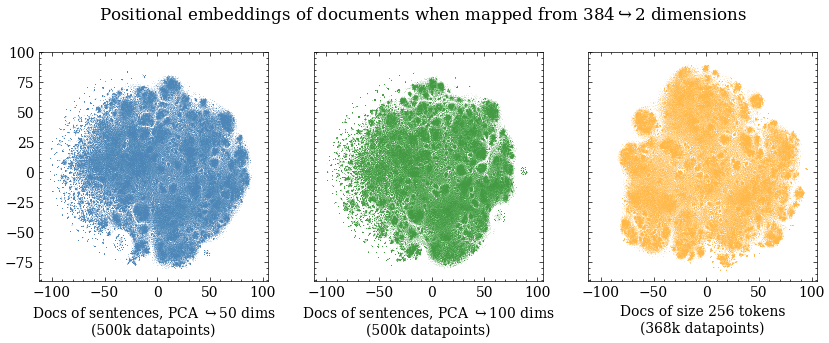
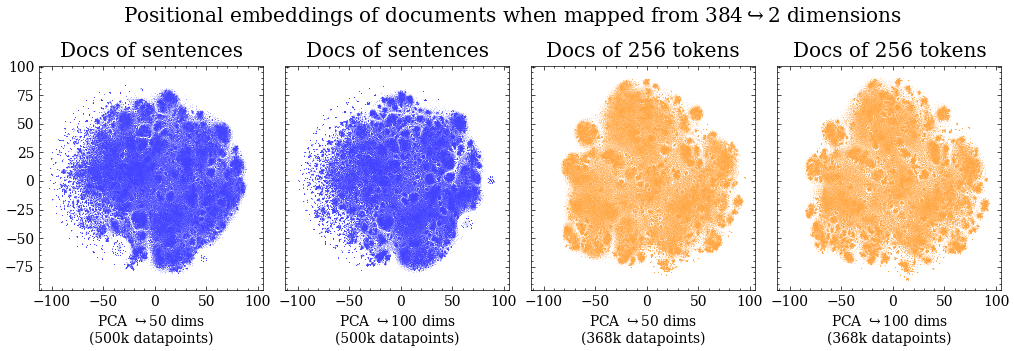
update readme

diff --git a/README.md b/README.md
@@ -45,9 +45,18 @@ We see that even though the education category contain more transcripts, the spo
 
 Embedding the documents with BERT and reducing dimensionality in a two step approach using PCA and t-SNE. 
 
-After applying HDBSCAN to the embeddings with two different configurations, we get the following topics: 
+After applying HDBSCAN to the embeddings with three different configurations of the hyperparamteres, we get the following clusters after removing noise: 
 
-![Embedings](Images/topic_clusters.png)
+![Embedings](Images/clusters.png)
 
+The topic cluster sizes have the following distribution of the 25 top topics of each HDBSCAN model: 
+
+![topic distributions](Images/topic_models_dist.png)
+
+After applying TopicTiling* according to our modified version that makes use of topic probability density vectors from the transformer based clustering with HDBSCAN, we get the following WindowDiff score when testing out different configurations of the window paramteter in TopicTiling* and the Mpts hyperparameter of HDBSCAN: 
+
+![Window_diff model eval](Images/model_selection.png)
+
+based on the obeve plot we see that different Mpts configuraitons do not make any difference but altering the window parameter does. We observe a negative exponential relationship between WindowDiff and window size for all models. After the window is increased to 20, we see less of an improvment. Therefore, we have selected a model with window size = 20 for all forthcomming evaluation. 
 
 ## Sit tight! More to come, work in progress :) 
